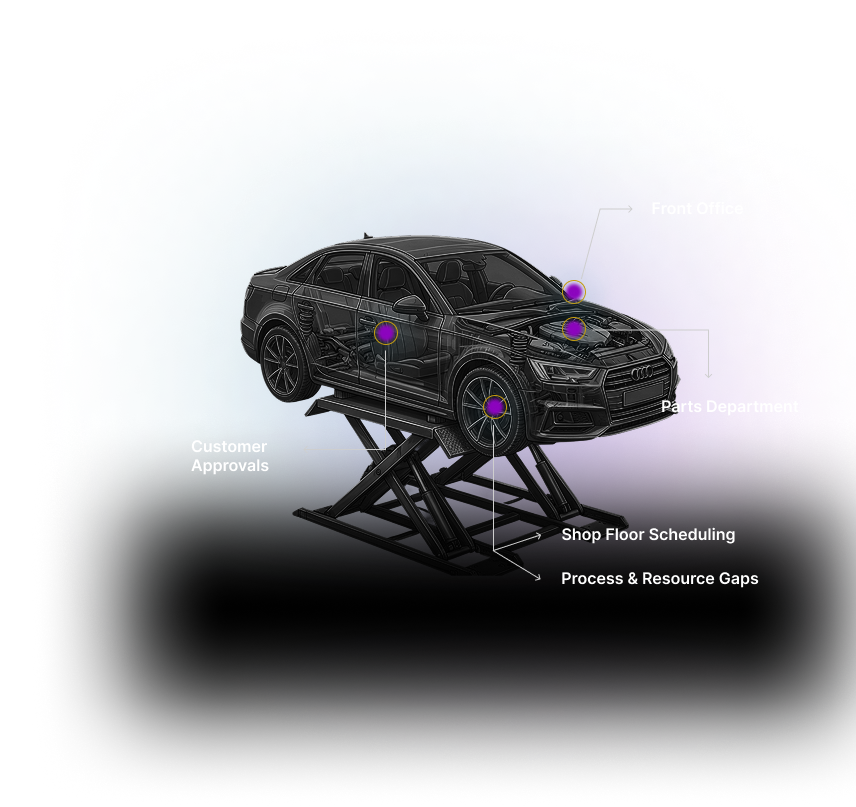
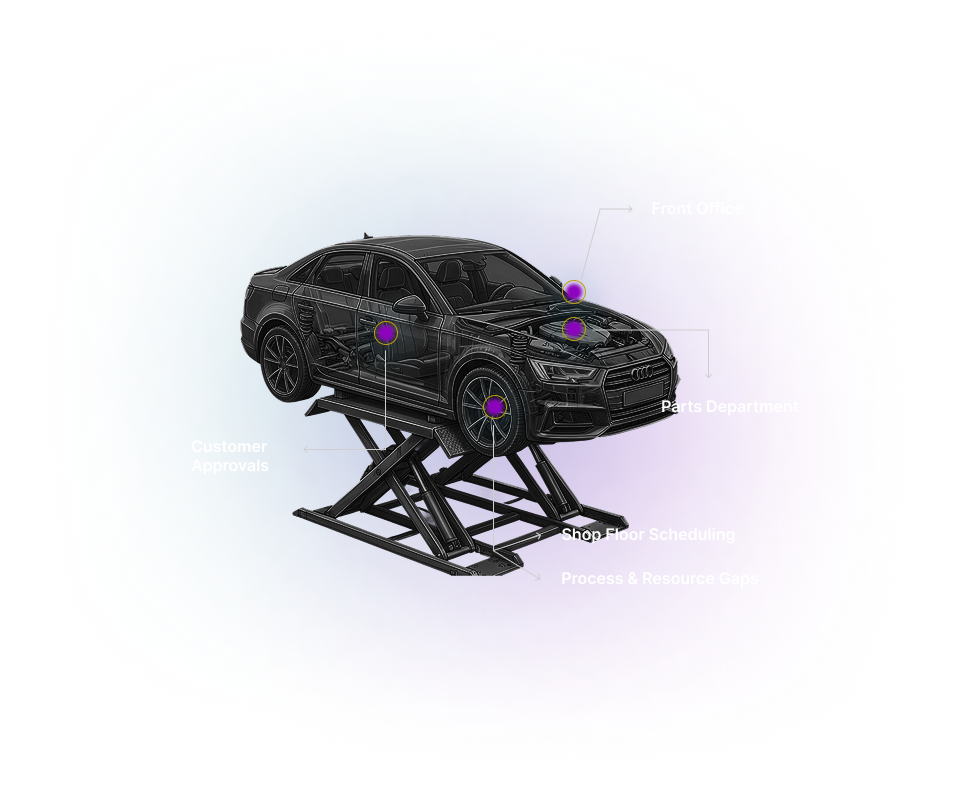
light theme images added

diff --git a/src/components/Approach/Capabilities.jsx b/src/components/Approach/Capabilities.jsx
@@ -1,10 +1,15 @@
 import React from "react";
 import imgProcess from "../../assets/Approach/Capabilities/image 7.png";
+import imgProcessLight from "../../assets/Approach/Capabilities/image 7-light.png";
 import imgDigitisation from "../../assets/Approach/Capabilities/image 8.png";
+import imgDigitisationLight from "../../assets/Approach/Capabilities/image 8-light.png";
 import imgAutomation from "../../assets/Approach/Capabilities/image 9.png";
+import imgAutomationLight from "../../assets/Approach/Capabilities/image 9-light.png";
 import imgAI from "../../assets/Approach/Capabilities/image 10.png";
+import imgAILight from "../../assets/Approach/Capabilities/image 10-light.png";
 import imgAutonomous from "../../assets/Approach/Capabilities/Rectangle 2.png";
-
+import imgAutonomousLight from "../../assets/Approach/Capabilities/Rectangle 2-light.png";
+import { useTheme } from "../../context/ThemeContext";
 
 const capabilities = [
   {
@@ -14,13 +19,13 @@ const capabilities = [
       "Most organizations struggle with fragmented processes, disconnected systems, and limited visibility. We create a unified operational view that enables leaders to understand what is happening across the enterprise in real time, empowering faster and more informed decisions",
     subTags: [
       "Process Optimization",
-
       "SOP Development",
       "Workflow Design",
       "Operational Gap Analysis",
       "Business Process Mapping",
     ],
     image: imgAutonomous,
+    lightImage: imgAutonomousLight,
   },
   {
     category: "Digitisation",
@@ -35,6 +40,7 @@ const capabilities = [
       "Digital Workflow Platforms",
     ],
     image: imgProcess,
+    lightImage: imgProcessLight,
   },
   {
     category: "Automation",
@@ -43,6 +49,7 @@ const capabilities = [
       "Teams spend valuable time on routine activities that can be automated. Through workflow automation, AI, and intelligent orchestration, we reduce manual intervention and allow people to focus on higher-value work.",
     subTags: ["Process Mapping", "Process Optimization"],
     image: imgDigitisation,
+    lightImage: imgDigitisationLight,
   },
   {
     category: "Artificial Intelligence",
@@ -57,6 +64,7 @@ const capabilities = [
       "Business Process Mapping",
     ],
     image: imgAutomation,
+    lightImage: imgAutomationLight,
   },
   {
     category: "Autonomous Enterprise",
@@ -70,13 +78,17 @@ const capabilities = [
       "Self Monitoring Systems",
     ],
     image: imgAI,
+    lightImage: imgAILight,
   },
 ];
 
 const Capabilities = () => {
+  const { isDark } = useTheme();
+
   return (
     <section className="capabilities">
       {capabilities.map((cap, i) => {
+        const displayedImage = !isDark && cap.lightImage ? cap.lightImage : cap.image;
         return (
           <div className="capability-card" key={i}>
             <div className="capability-left">
@@ -94,7 +106,7 @@ const Capabilities = () => {
               </div>
             </div>
             <div className="capability-right">
-              <img src={cap.image} alt={cap.title} />
+              <img src={displayedImage} alt={cap.title} />
             </div>
           </div>
         );

diff --git a/src/components/Approach.jsx b/src/components/Approach.jsx
@@ -7,7 +7,9 @@ import Ecosystem from "./Approach/Ecosystem";
 import Capabilities from "./Approach/Capabilities";
 import ExploreSolutions from "./Approach/ExploreSolutions";
 import img12 from "../assets/Approach/Rectangle 12.png";
+import img12Light from "../assets/Approach/Rectangle 12 light.png";
 import img13 from "../assets/Approach/Rectangle 13.png";
+import img13Light from "../assets/Approach/Rectangle 13 light.png";
 import { ApproachPageStructuredData } from "../structured-data/index.jsx";
 
 const Approach = () => {
@@ -41,6 +43,7 @@ const Approach = () => {
         }
         description="Explore intelligent solutions designed to solve complex operational challenges."
         image={img12}
+        lightImage={img12Light}
         imageAlt="AI Solution Optimizer Dashboard"
         btnHref="/solutions"
       />
@@ -55,6 +58,7 @@ const Approach = () => {
         }
         description="See how AI transforms safety, efficiency, and operational performance."
         image={img13}
+        lightImage={img13Light}
         imageAlt="Seven Pillars of Autonomous Operations Diagram"
         reverse={true}
         btnHref="/industries"

diff --git a/src/components/About.jsx b/src/components/About.jsx
@@ -7,7 +7,9 @@ import Industries from "./Home/Industries";
 import GetInTouch from "./About/GetInTouch";
 import ExploreSolutions from "./Approach/ExploreSolutions";
 import img12 from "../assets/Approach/Rectangle 12.png";
+import img12Light from "../assets/Approach/Rectangle 12 light.png";
 import img13 from "../assets/Approach/Rectangle 13.png";
+import img13Light from "../assets/Approach/Rectangle 13 light.png";
 import Ecosystem from "./Approach/Ecosystem";
 import { AboutPageStructuredData } from "../structured-data/index.jsx";
 
@@ -48,6 +50,7 @@ const About = () => {
         }
         description="Explore intelligent solutions designed to solve complex operational challenges."
         image={img12}
+        lightImage={img12Light}
         imageAlt="AI Solution Optimizer Dashboard"
         btnHref="/solutions"
       />
@@ -63,6 +66,7 @@ const About = () => {
         }
         description="See how AI transforms safety, efficiency, and operational performance."
         image={img13}
+        lightImage={img13Light}
         imageAlt="Seven Pillars of Autonomous Operations Diagram"
         btnHref="/industries"
       />

diff --git a/src/components/Home.jsx b/src/components/Home.jsx
@@ -9,7 +9,9 @@ import System from "./Home/System";
 import Core from "./Home/Core";
 import ExploreSolutions from "./Approach/ExploreSolutions";
 import img12 from "../assets/Approach/Rectangle 12.png";
+import img12Light from "../assets/Approach/Rectangle 12 light.png";
 import img13 from "../assets/Approach/Rectangle 13.png";
+import img13Light from "../assets/Approach/Rectangle 13 light.png";
 import { HomePageStructuredData } from "../structured-data/index.jsx";
 
 const Home = () => {
@@ -51,6 +53,7 @@ const Home = () => {
           }
           description="Explore intelligent solutions designed to solve complex operational challenges."
           image={img12}
+          lightImage={img12Light}
           imageAlt="AI Solution Optimizer Dashboard"
           btnHref="/solutions"
         />
@@ -67,6 +70,7 @@ const Home = () => {
           }
           description="See how AI transforms safety, efficiency, and operational performance."
           image={img13}
+          lightImage={img13Light}
           imageAlt="Seven Pillars of Autonomous Operations Diagram"
           btnHref="/industries"
         />

diff --git a/src/components/Approach/ExploreSolutions.jsx b/src/components/Approach/ExploreSolutions.jsx
@@ -1,17 +1,19 @@
 import React from "react";
 import { Link } from "react-router-dom";
-
+import { useTheme } from "../../context/ThemeContext";
 
 const ExploreSolutions = ({
   title,
   description,
   image,
+  lightImage,
   imageAlt,
   reverse = false,
   btnText = "Explore Now",
   btnHref = "/solutions",
 }) => {
-
+  const { isDark } = useTheme();
+  const displayedImage = !isDark && lightImage ? lightImage : image;
 
   return (
     <section className={`explore-solutions ${reverse ? "reverse-section" : ""}`}>
@@ -31,7 +33,7 @@ const ExploreSolutions = ({
           </Link>
         </div>
         <div className="explore-solutions-img-col">
-          <img src={image} alt={imageAlt} />
+          <img src={displayedImage} alt={imageAlt} />
         </div>
       </div>
     </section>

diff --git a/src/components/Solutions/Insight.jsx b/src/components/Solutions/Insight.jsx
@@ -1,7 +1,12 @@
 import React from "react";
 import insightBg from "../../assets/Solutions/Insight.png";
+import insightBgLight from "../../assets/Solutions/Insight-light.png";
+import { useTheme } from "../../context/ThemeContext";
 
 const Insight = () => {
+  const { isDark } = useTheme();
+  const displayedImage = isDark ? insightBg : insightBgLight;
+
   return (
     <section className="solutions-insight">
       <div className="solutions-insight-content">
@@ -17,7 +22,7 @@ const Insight = () => {
         {/* Central Graphic */}
         <div className="solutions-insight-image-wrap">
           <img
-            src={insightBg}
+            src={displayedImage}
             alt="Insight Architecture"
             className="solutions-insight-image"
           />

diff --git a/src/components/Industries.jsx b/src/components/Industries.jsx
@@ -8,6 +8,7 @@ import Brain from "./Industries/Brain";
 import Economics from "./Industries/Economics";
 import ExploreSolutions from "./Approach/ExploreSolutions";
 import img12 from "../assets/Approach/Rectangle 12.png";
+import img12Light from "../assets/Approach/Rectangle 12 light.png";
 import { IndustriesPageStructuredData } from "../structured-data/index.jsx";
 // import img13 from "../assets/CoreValue/Rectangle 13.png";
 const Industries = () => {
@@ -47,6 +48,7 @@ const Industries = () => {
         }
         description="Explore intelligent solutions designed to solve complex operational challenges."
         image={img12}
+        lightImage={img12Light}
         imageAlt="AI Solution Optimizer Dashboard"
         btnHref="/solutions"
       />

diff --git a/src/components/Home/Problem.jsx b/src/components/Home/Problem.jsx
@@ -1,9 +1,9 @@
 import React from "react";
 import { useTheme } from "../../context/ThemeContext";
 import CardGrid1 from "../../assets/Home/Banner/card-gridline.png";
-import CardGrid1Light from "../../assets/Home/Banner/card-gridline-light.png";
+import CardGrid1Light from "../../assets/Home/Banner/card-gridline.png";
 import CardGrid2 from "../../assets/Home/Banner/card-gridline1.png";
-import CardGrid2Light from "../../assets/Home/Banner/card-gridline1-light.png";
+import CardGrid2Light from "../../assets/Home/Banner/card-gridline1.png";
 
 /* ── Card 1: 4 dots converging toward the center ball ── */
 const ConvergingDots = () => {

diff --git a/light-theme.css b/light-theme.css
@@ -126,7 +126,9 @@
   .problem-card {
     background: rgba(238, 238, 238, 0.75);
   }
-
+  .problem-card-img {
+    border-radius: 12px 12px 0px 0px;
+  }
   .transformation-card {
     background: linear-gradient(
       96deg,
@@ -581,7 +583,9 @@
   .solutions-insight {
     background: var(--bg-primary);
   }
-
+  .solutions-insight-image {
+    object-fit: cover;
+  }
   .solutions-insight-title {
     color: #0d0d0d;
   }
